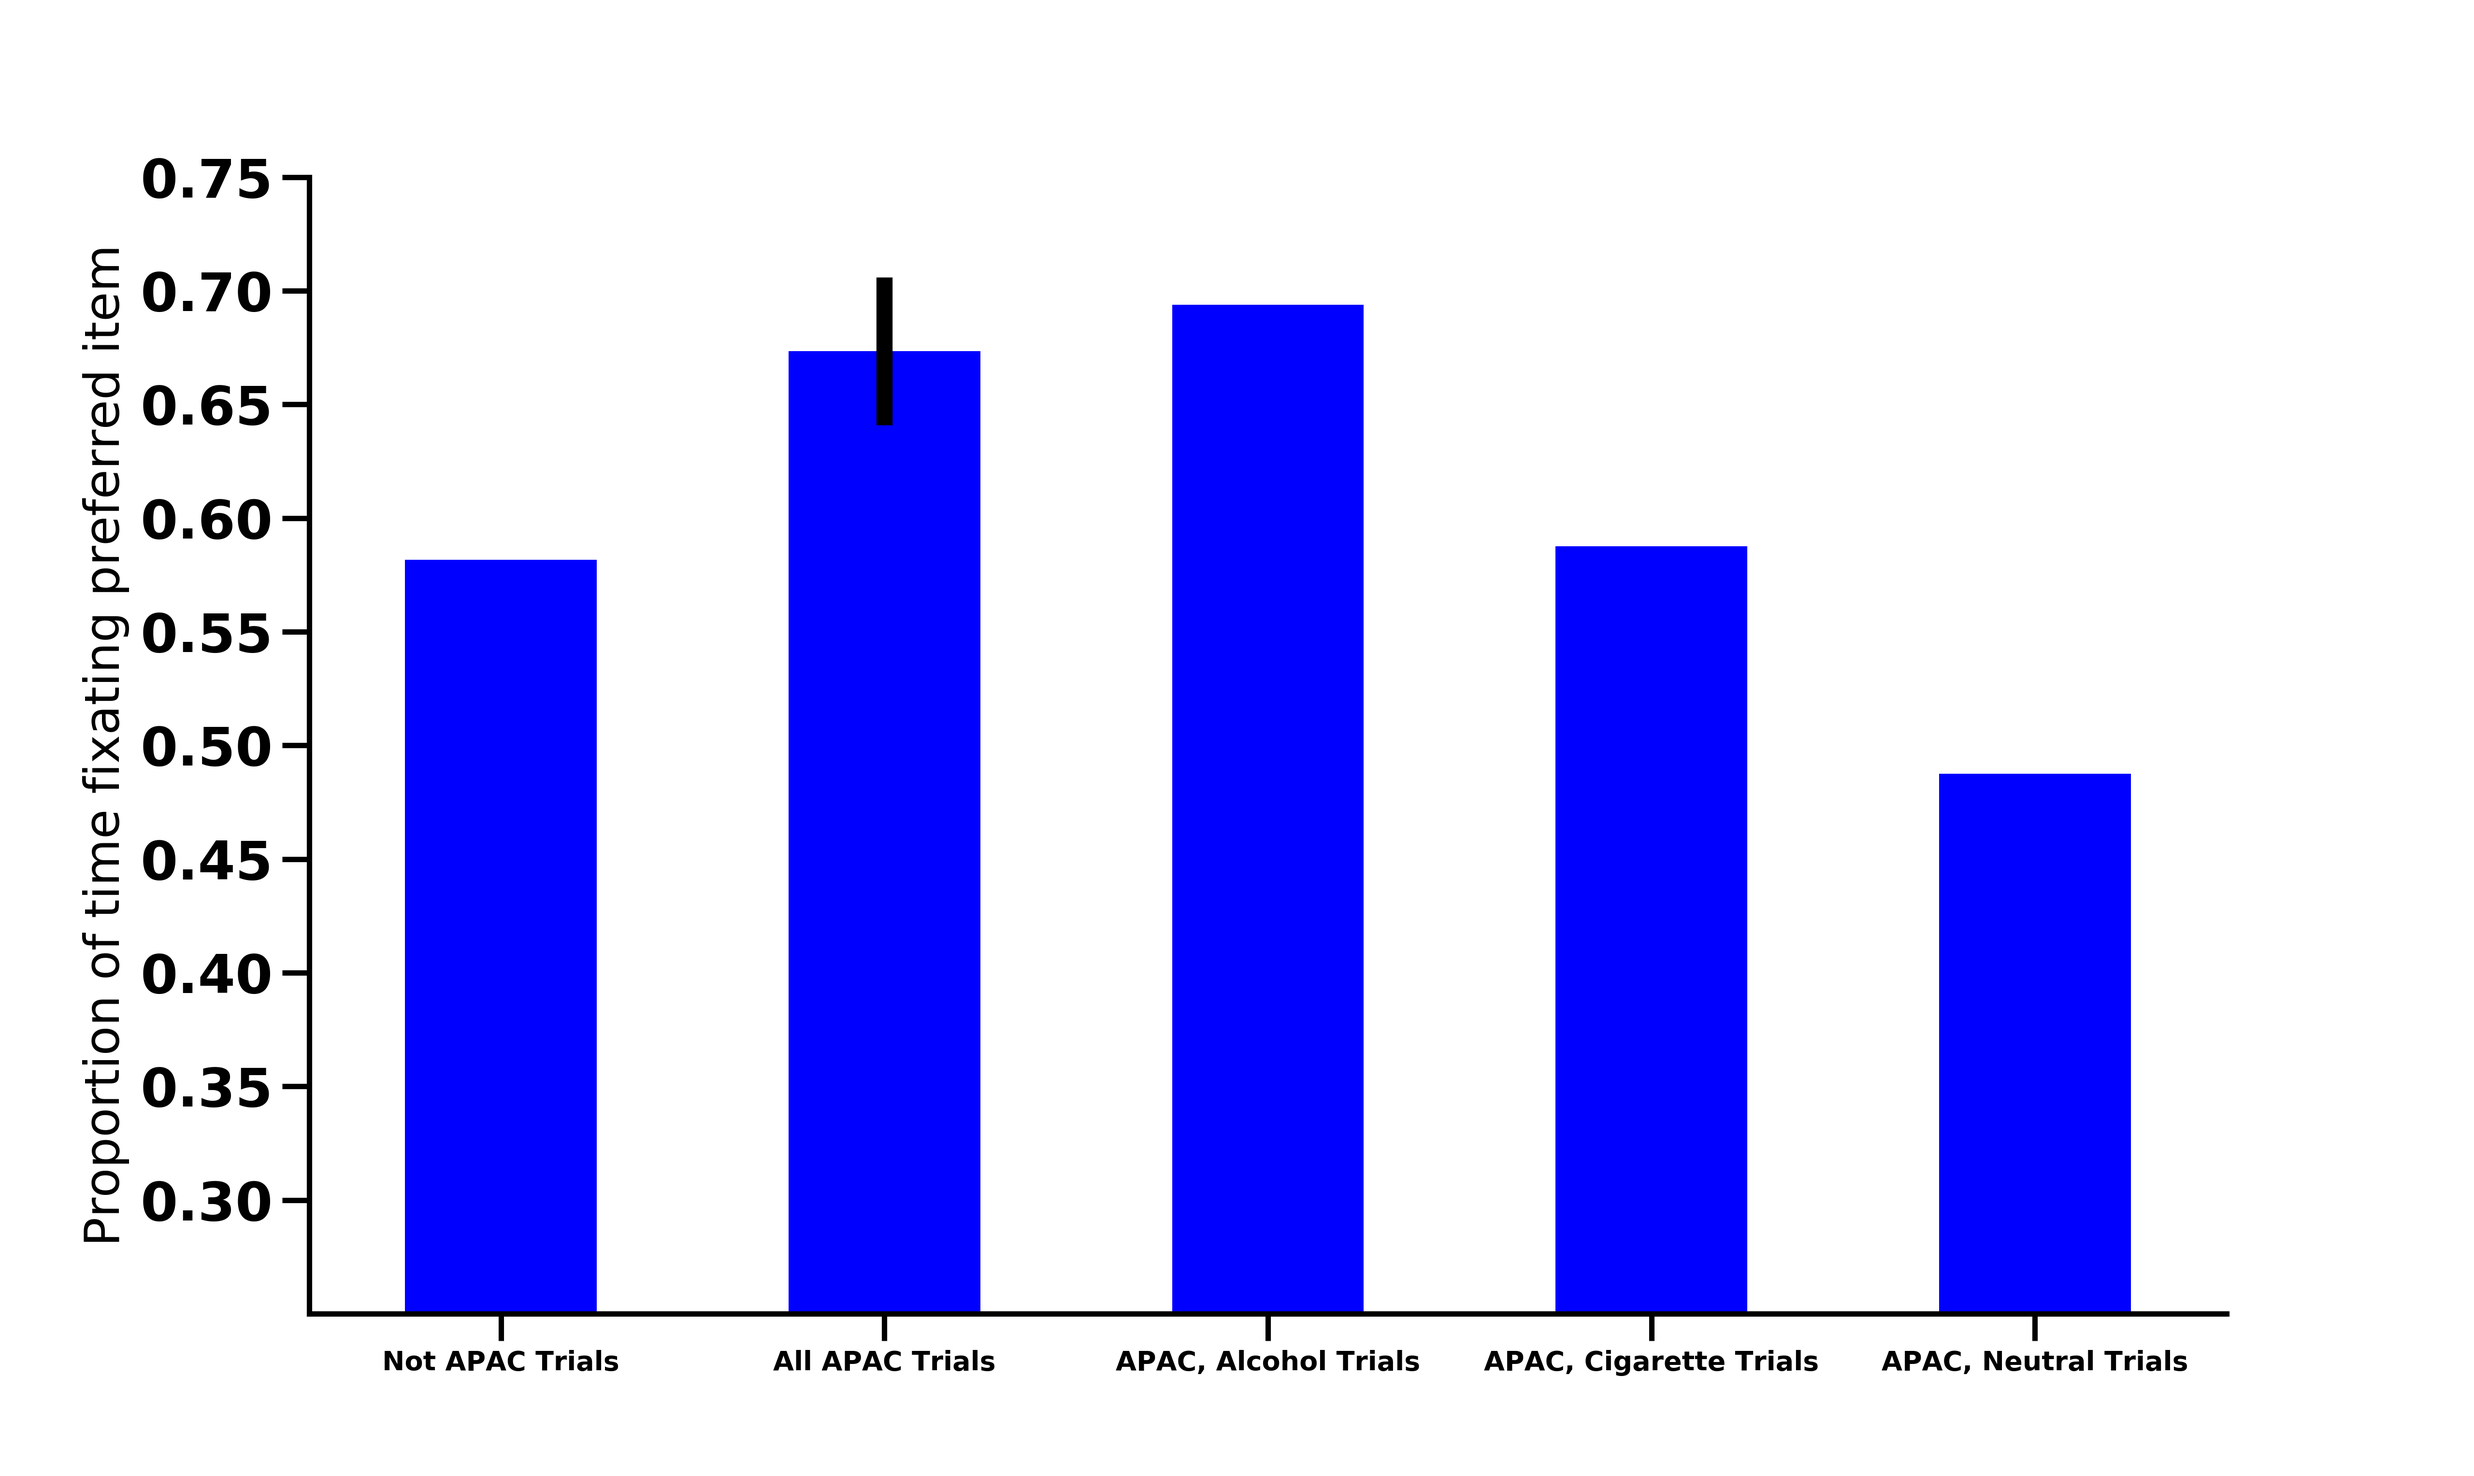
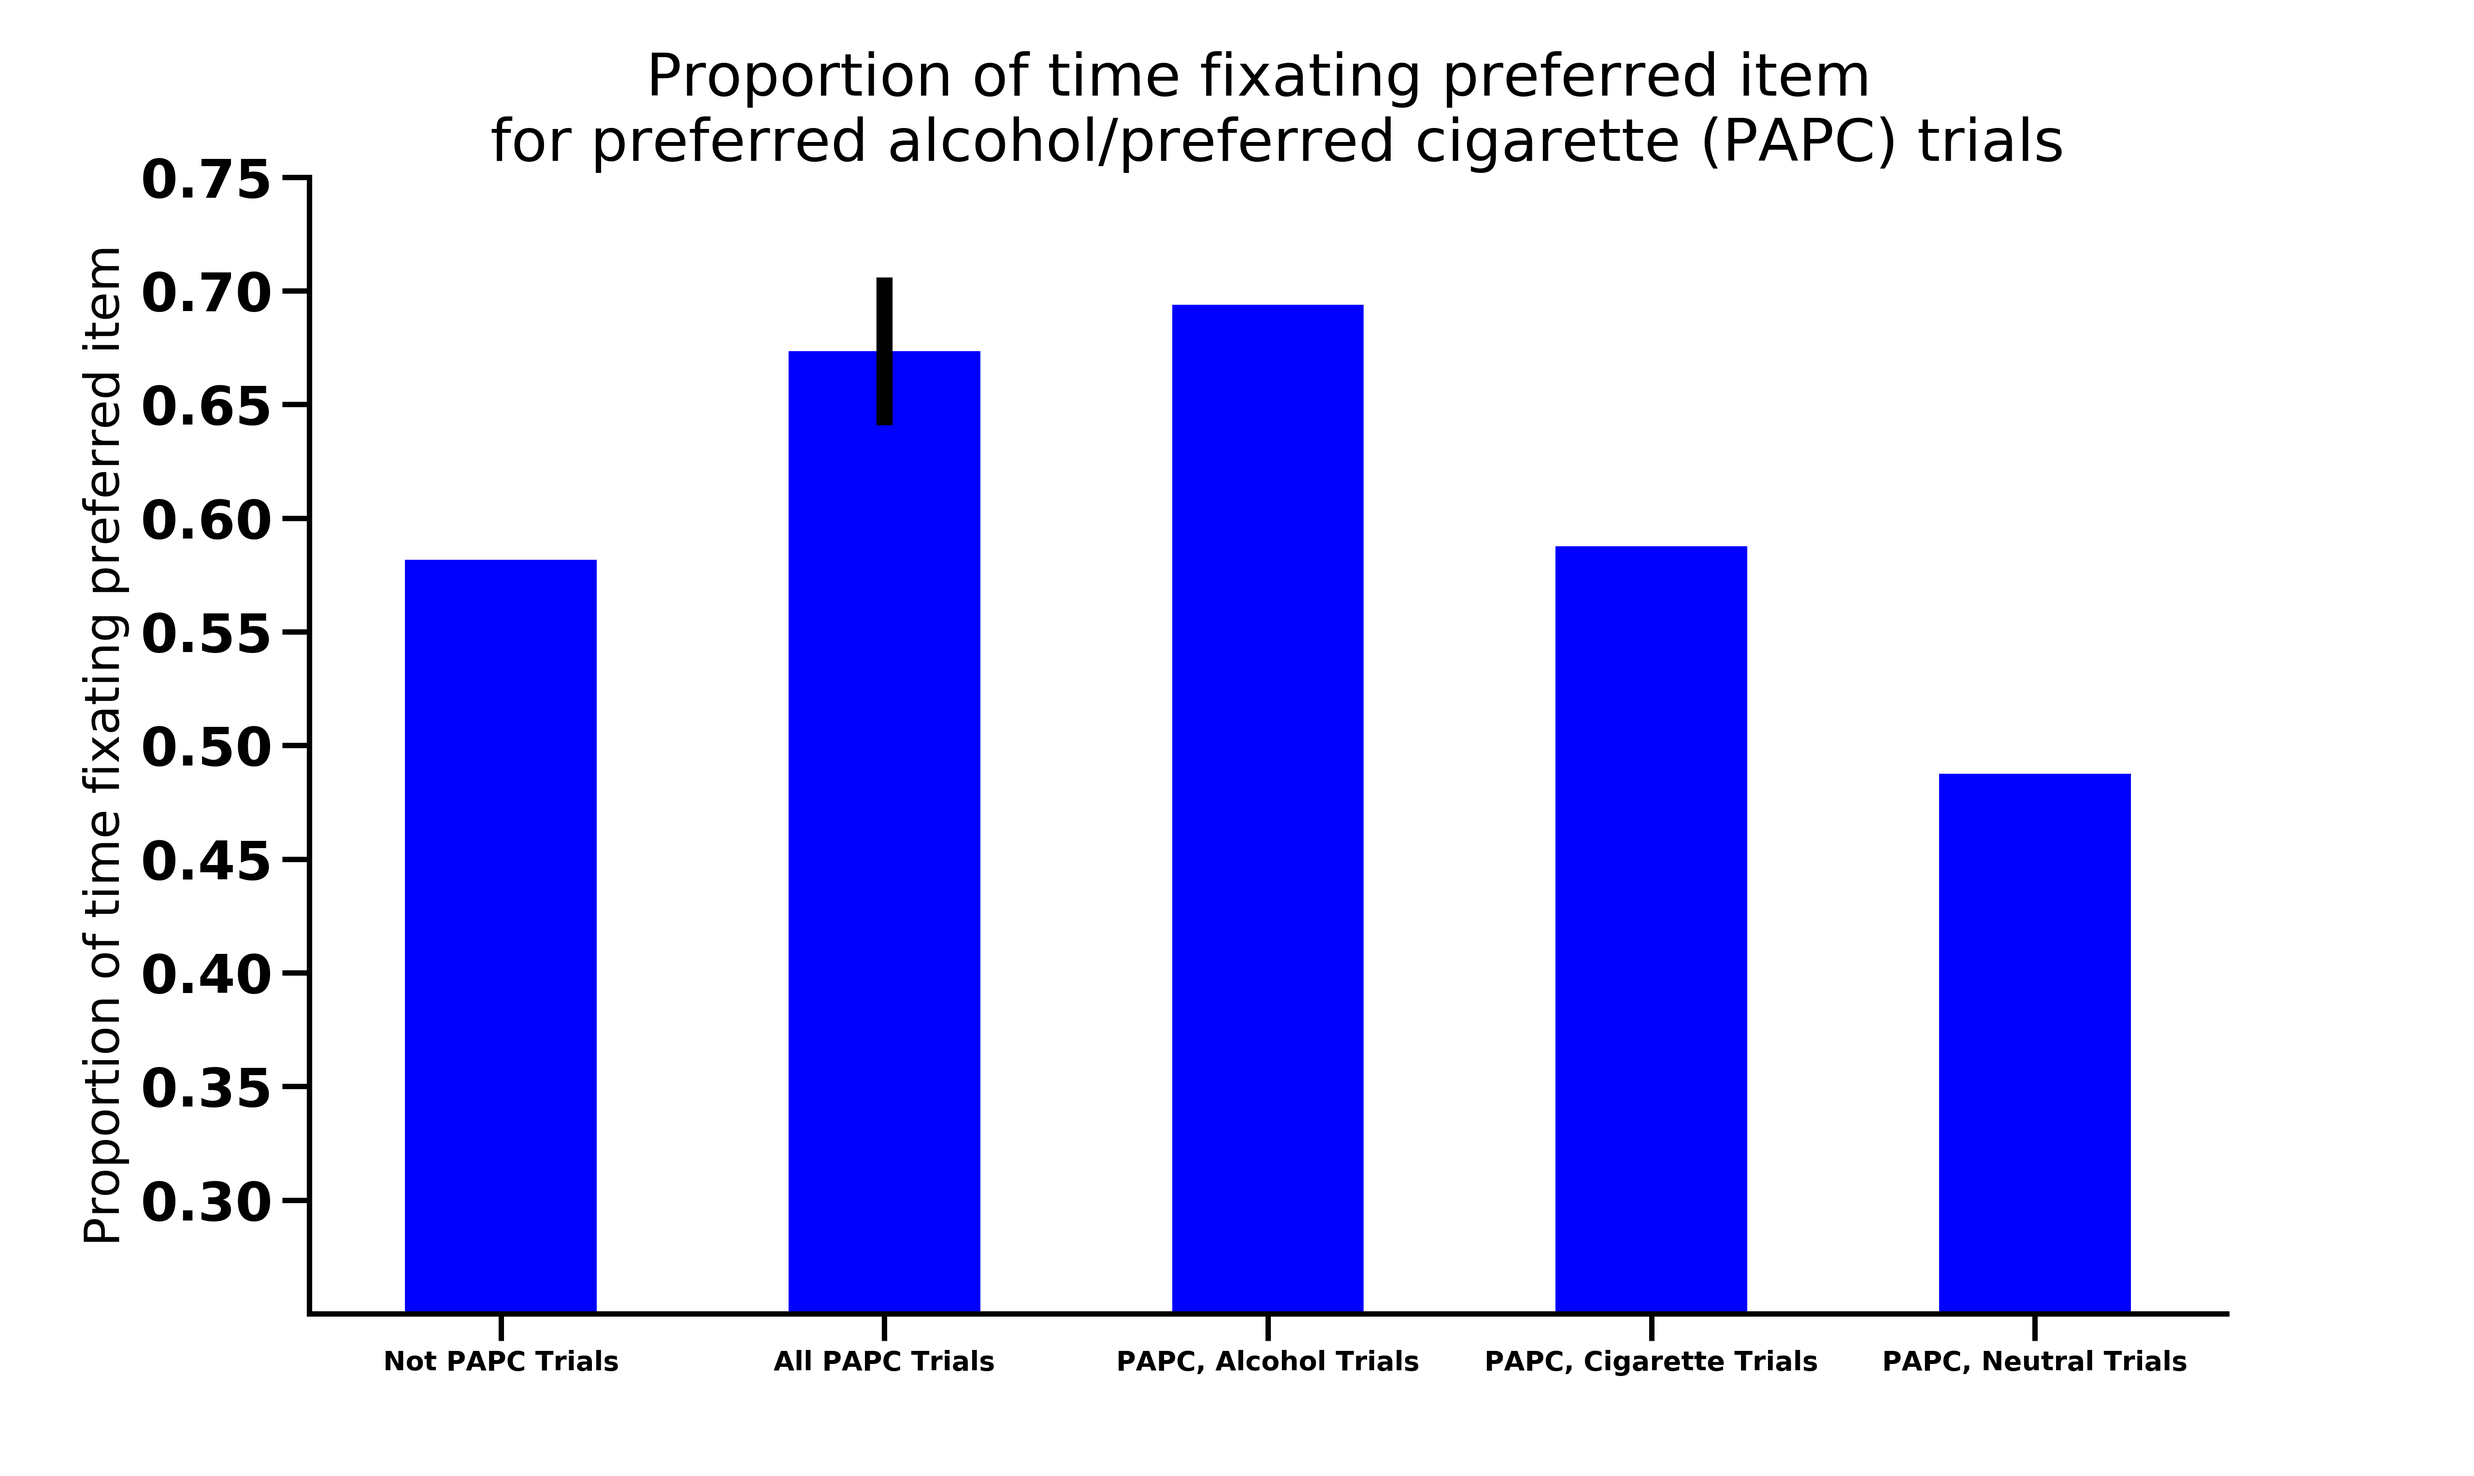
made progress with the plotting of percentage of time spent looking at preferred item and percentage of trials fixating selected item last. need to confirm the plotting of the last one is correct and then need to make headway on errobars

diff --git a/cret_plot.py b/cret_plot.py
@@ -29,14 +29,13 @@ matplotlib.rcParams['hatch.color'] = 'black';
 matplotlib.pyplot.rc('font',weight='bold');
 
 ############################################
-## Figure plotting ##
+## Plotting proportion of time spent fixating the eventually chosen item figure  ##
 ############################################
 
-### Plotting percentage of time spent fixating the eventually chosen item data ###
 fig = figure(figsize = (12.8,7.64)); ax1=gca(); #grid(True);
 ax1.set_ylim(0.25,0.75); ax1.set_yticks(arange(0.30,0.751,0.05)); ax1.set_xlim([0.7,3.7]); ax1.set_xticks([1,1.6,2.2,2.8,3.4]);
 ax1.set_ylabel('Proportion of time fixating preferred item',size=18); ax1.set_xlabel('Condition',size=18,labelpad=40);
-ax1.set_xticklabels(['Not APAC Trials','All APAC Trials','APAC, Alcohol Trials','APAC, Cigarette Trials','APAC, Neutral Trials']);
+ax1.set_xticklabels(['Not PAPC Trials','All PAPC Trials','PAPC, Alcohol Trials','PAPC, Cigarette Trials','PAPC, Neutral Trials']);
 colors=['blue'];
 ax1.bar(1,db['%s_%s_mean_perc_time_at_pref'%('agg','non_high_pref')],color=colors[0],width=0.3);
 ax1.errorbar(1,db['%s_%s_mean_perc_time_at_pref'%('agg','non_high_pref')],
@@ -56,6 +55,7 @@ ax1.errorbar(3.4,db['%s_high_pref_%s_mean_perc_time_at_pref'%('agg','neutral')],
 ax1.spines['right'].set_visible(False); ax1.spines['top'].set_visible(False);
 ax1.spines['bottom'].set_linewidth(2.0); ax1.spines['left'].set_linewidth(2.0);
 ax1.yaxis.set_ticks_position('left'); ax1.xaxis.set_ticks_position('bottom');
+title('Proportion of time fixating preferred item \n for preferred alcohol/preferred cigarette (PAPC) trials', fontsize = 22);
 #save the labeled figure as a .png	
 filename = 'percentage_time_fixate_preferred_item_labeled';
 savefig(savepath+filename+'.png',dpi=400);
@@ -63,7 +63,49 @@ savefig(savepath+filename+'.png',dpi=400);
 # labels = [item.get_text() for item in ax1.get_xticklabels()]; labels[0]=''; labels[1]=''; labels[2]=''; labels[3]=''; labels[4]='';#have to do this to center the x ticks on correct spot without incurring ticks at every spot
 # ax1.set_xticklabels(labels);
 # ax1.set_yticklabels(['','','','','','','','','','','','','','']);
-# ax1.set_ylabel(''); ax1.set_xlabel('');
+# ax1.set_ylabel(''); ax1.set_xlabel(''); title('');
 # filename = 'percentage_time_fixate_preferred_item';
 # savefig(savepath+filename+'.eps',dpi=400);
 show();
+
+
+############################################
+## Plotting proportion of trials the last fixted items was the preferred item figure  ##
+############################################
+fig = figure(figsize = (12.8,7.64)); ax1=gca(); #grid(True);
+ax1.set_ylim(0.25,0.8); ax1.set_yticks(arange(0.3,0.81,0.05)); ax1.set_xlim([0.7,3.7]); ax1.set_xticks([1,1.6,2.2,2.8,3.4]);
+ax1.set_ylabel('Proportion of trials last fixated item was selected',size=18); ax1.set_xlabel('Condition',size=18,labelpad=40);
+ax1.set_xticklabels(['Not PAPC Trials','All PAPC Trials','PAPC, Alcohol Trials','PAPC, Cigarette Trials','PAPC, Neutral Trials']);
+colors=['green'];
+ax1.bar(1,db['%s_%s_mean_prop_last_fixated_item'%('agg','non_high_pref')],color=colors[0],width=0.3);
+ax1.errorbar(1,db['%s_%s_mean_prop_last_fixated_item'%('agg','non_high_pref')],
+			 yerr=[[db['%s_%s_bs_sems_prop_last_fixated_item'%('agg','non_high_pref')]],[db['%s_%s_bs_sems_prop_last_fixated_item'%('agg','non_high_pref')]]],color='black',lw=6.0);
+ax1.bar(1.6,db['%s_%s_mean_prop_last_fixated_item'%('agg','high_pref')],color=colors[0],width=0.3);
+ax1.errorbar(1.6,db['%s_%s_mean_prop_last_fixated_item'%('agg','high_pref')],
+			 yerr=[[db['%s_%s_bs_sems_prop_last_fixated_item'%('agg','high_pref')]],[db['%s_%s_bs_sems_prop_last_fixated_item'%('agg','high_pref')]]],color='black',lw=6.0);
+ax1.bar(2.2,db['%s_high_pref_%s_mean_prop_last_fixated_item'%('agg','alcohol')],color=colors[0],width=0.3);
+ax1.errorbar(2.2,db['%s_high_pref_%s_mean_prop_last_fixated_item'%('agg','alcohol')],
+			 yerr=[[db['%s_high_pref_%s_bs_sems_prop_last_fixated_item'%('agg','alcohol')]],[db['%s_high_pref_%s_bs_sems_prop_last_fixated_item'%('agg','alcohol')]]],color='black',lw=6.0);
+ax1.bar(2.8,db['%s_high_pref_%s_mean_prop_last_fixated_item'%('agg','cigarette')],color=colors[0],width=0.3);
+ax1.errorbar(2.8,db['%s_high_pref_%s_mean_prop_last_fixated_item'%('agg','cigarette')],
+			 yerr=[[db['%s_high_pref_%s_bs_sems_prop_last_fixated_item'%('agg','cigarette')]],[db['%s_high_pref_%s_bs_sems_prop_last_fixated_item'%('agg','cigarette')]]],color='black',lw=6.0);
+ax1.bar(3.4,db['%s_high_pref_%s_mean_prop_last_fixated_item'%('agg','neutral')],color=colors[0],width=0.3);
+ax1.errorbar(3.4,db['%s_high_pref_%s_mean_prop_last_fixated_item'%('agg','neutral')],
+			 yerr=[[db['%s_high_pref_%s_bs_sems_prop_last_fixated_item'%('agg','neutral')]],[db['%s_high_pref_%s_bs_sems_prop_last_fixated_item'%('agg','neutral')]]],color='black',lw=6.0);
+ax1.spines['right'].set_visible(False); ax1.spines['top'].set_visible(False);
+ax1.spines['bottom'].set_linewidth(2.0); ax1.spines['left'].set_linewidth(2.0);
+ax1.yaxis.set_ticks_position('left'); ax1.xaxis.set_ticks_position('bottom');
+title('Proportion of trials fixating the selected item last \n for preferred alcohol/preferred cigarette (PAPC) trials', fontsize = 22);
+#save the labeled figure as a .png	
+filename = 'percentage_trials_last_fixated_item_labeled';
+savefig(savepath+filename+'.png',dpi=400);
+# #then get rid of labels and save as a .eps
+# labels = [item.get_text() for item in ax1.get_xticklabels()]; labels[0]=''; labels[1]=''; labels[2]=''; labels[3]=''; labels[4]='';#have to do this to center the x ticks on correct spot without incurring ticks at every spot
+# ax1.set_xticklabels(labels);
+# ax1.set_yticklabels(['','','','','','','','','','','','','','']);
+# ax1.set_ylabel(''); ax1.set_xlabel(''); title('');
+# filename = 'percentage_trials_last_fixated_item';
+# savefig(savepath+filename+'.eps',dpi=400);
+show();
+
+
